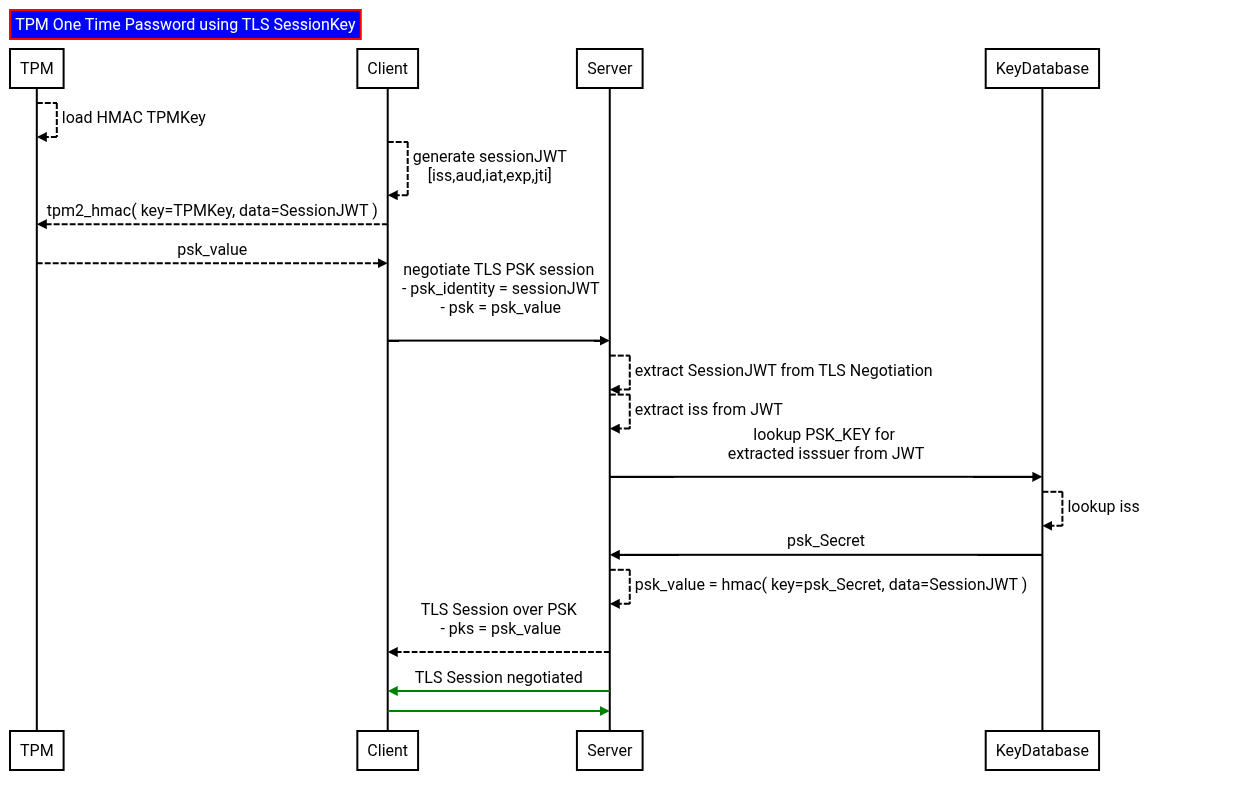
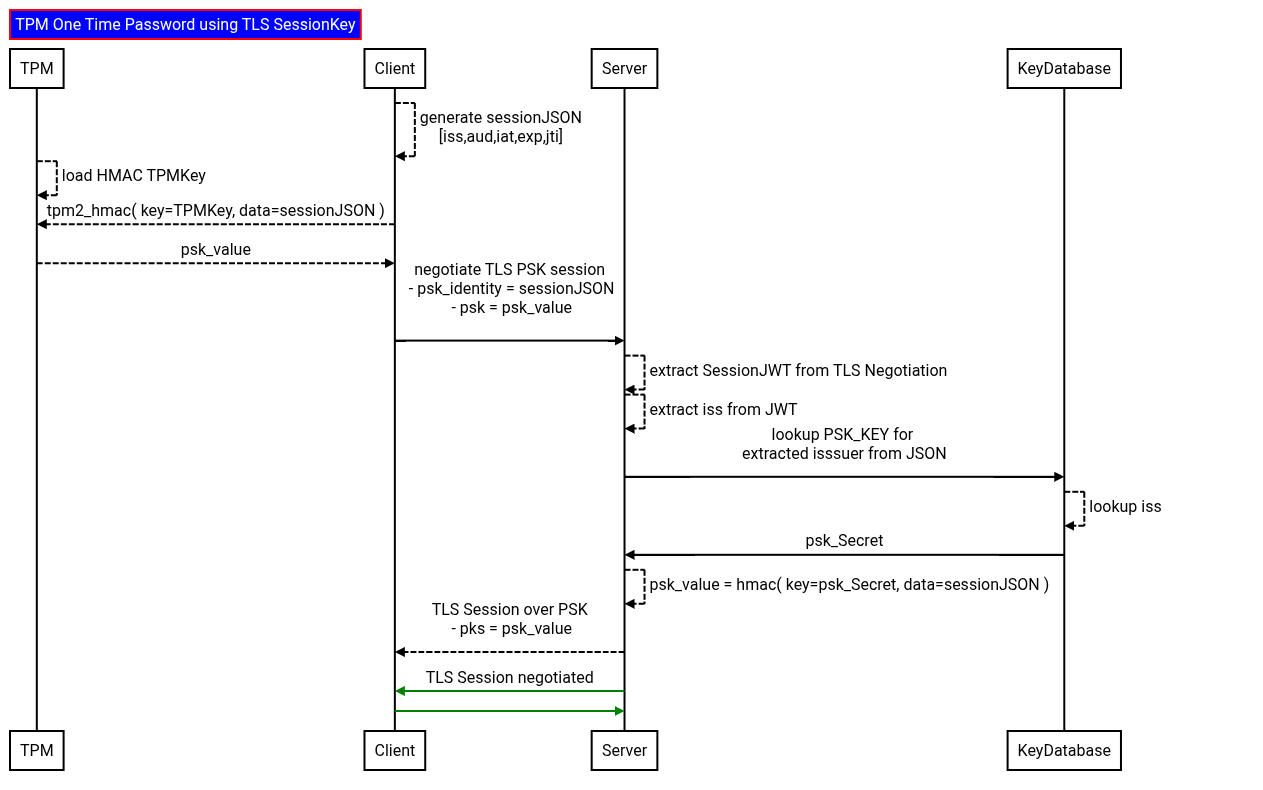
update diagram

diff --git a/README.md b/README.md
@@ -69,6 +69,8 @@ the full flow is something like this
 9. TLS Session established since both ends use the same PSK as the basis for the session
 
 
+Also note that in step 2, the client identity is just an encoded JSON message.  If you want, you can protect it by issuing an HMAC signed JWT (`HS256`) too using the TPM embedded key
+
 ---
 
 Also see
